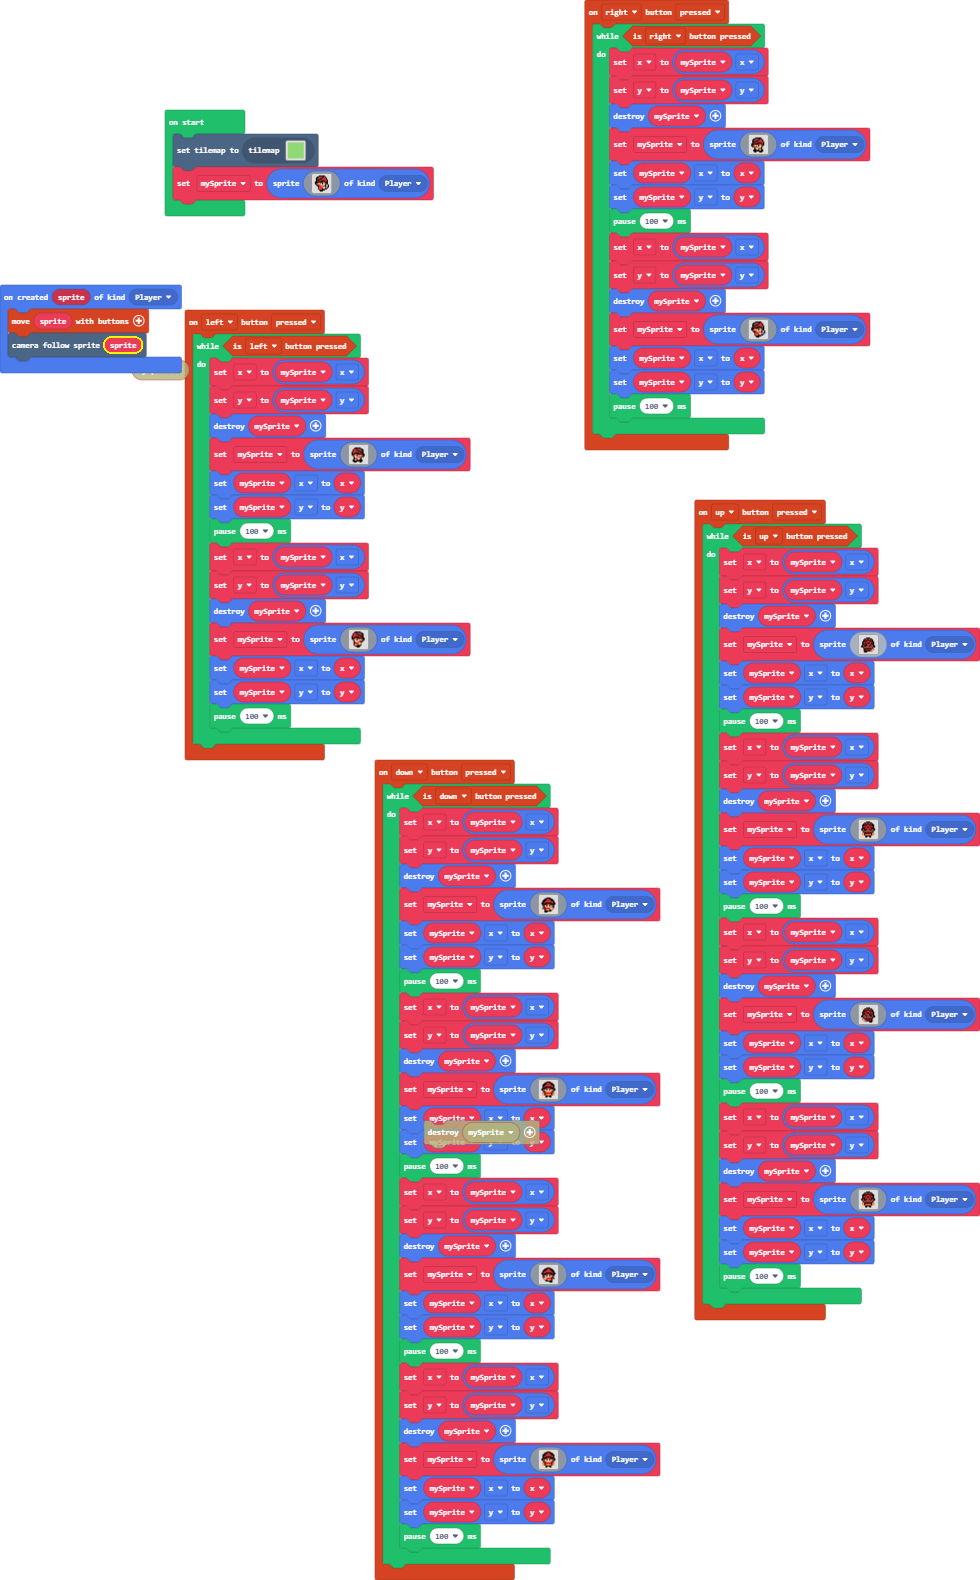
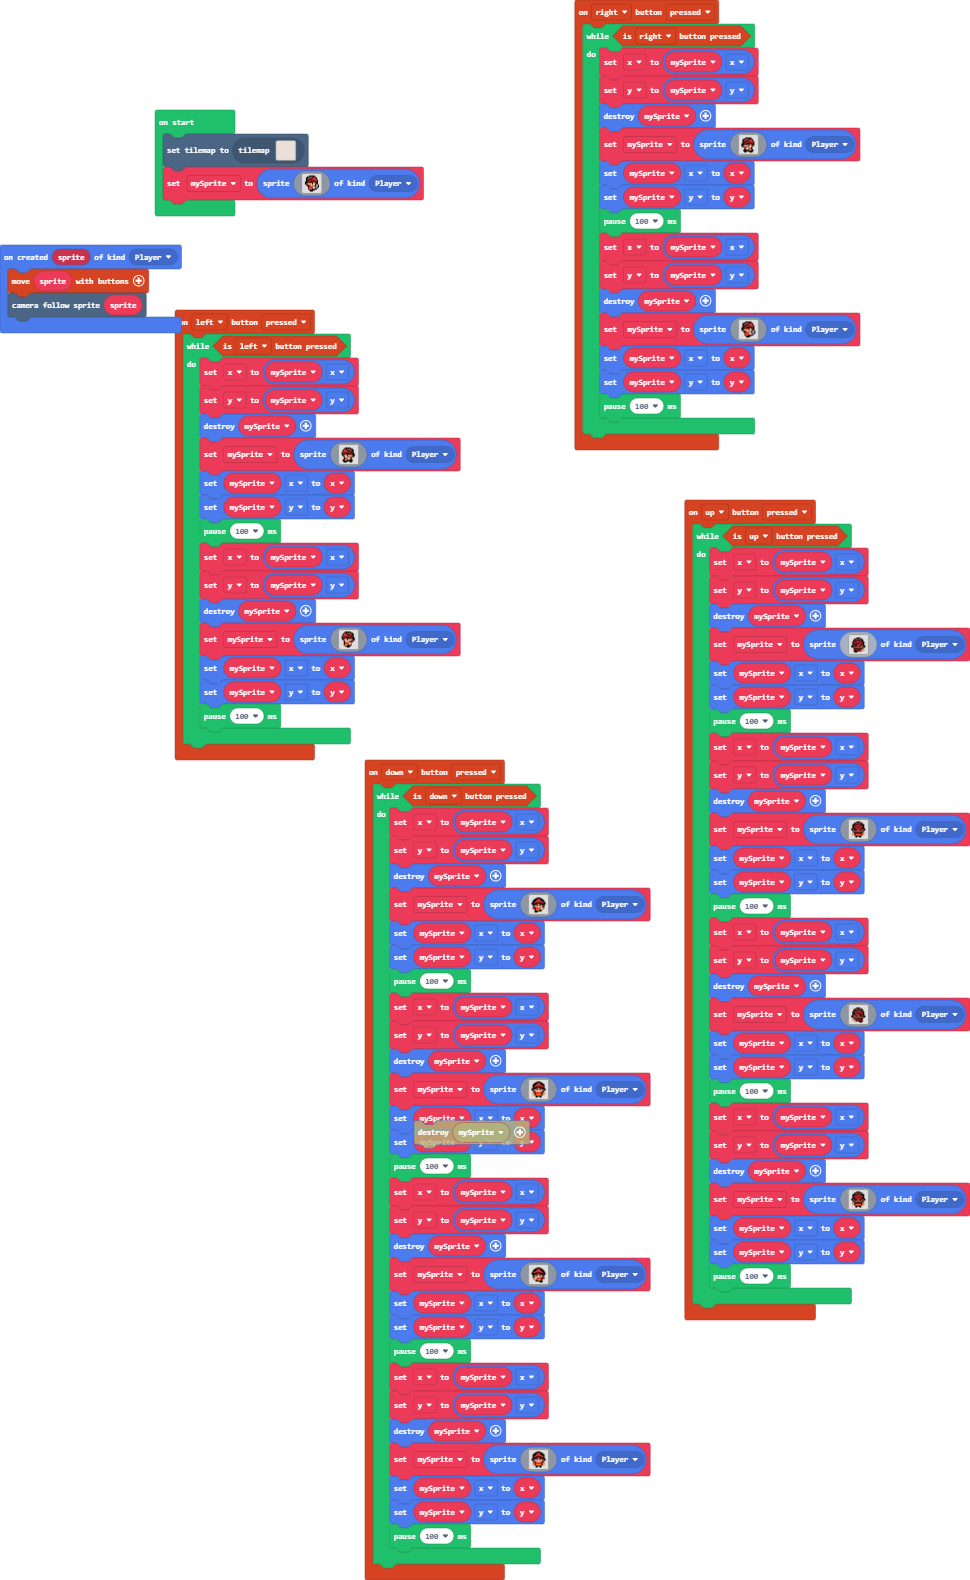
Update main.blocks, tilemap.g.jres, tilemap.g.ts

diff --git a/tilemap.g.ts b/tilemap.g.ts
@@ -25,7 +25,7 @@ namespace myTiles {
 . . . . . . . . . . . . . . . . 
 `, [myTiles.transparency16], TileScale.Sixteen);
             case "level2":
-            case "level2":return tiles.createTilemap(hex`1000100001010101010101010101010101010101010101010101010101010101010101010101010101010101010101010101010101010101010101010101010101010101010101010101010101010101010101010101010101010101010101010101010101010101020101010101010101010101010101010202010101010101010101010101010101010201010101010101010101010101010102010101010101010101010101010101020201010101010101010101010101010102020201010101010101010101010101010102010101010101010101010101010101010101010101010101010101010101010101010101010101010101010101010101010101010101`, img`
+            case "level2":return tiles.createTilemap(hex`1000100001010101010101010101010101010101010101010101010101010101010101010101010101010101010101010101010101010101010101010101010101010101010101010101010101010101010101010101010101010101010101010101010101010101010101010101010101010101010101010101010101010101010101010101010101010101010101010101010101010101010101010101010101010101010101010101010101010101010101010101010101010101010101010101010101010101010101010101010101010101010101010101010101010101010101010101010101010101010101010101010101010101010101010101010101010101`, img`
 . . . . . . . . . . . . . . . . 
 . . . . . . . . . . . . . . . . 
 . . . . . . . . . . . . . . . . 
@@ -42,7 +42,7 @@ namespace myTiles {
 . . . . . . . . . . . . . . . . 
 . . . . . . . . . . . . . . . . 
 . . . . . . . . . . . . . . . . 
-`, [myTiles.transparency16,sprites.castle.tileGrass2,sprites.builtin.oceanDepths0], TileScale.Sixteen);
+`, [myTiles.transparency16,sprites.builtin.brick], TileScale.Sixteen);
         }
         return null;
     })
